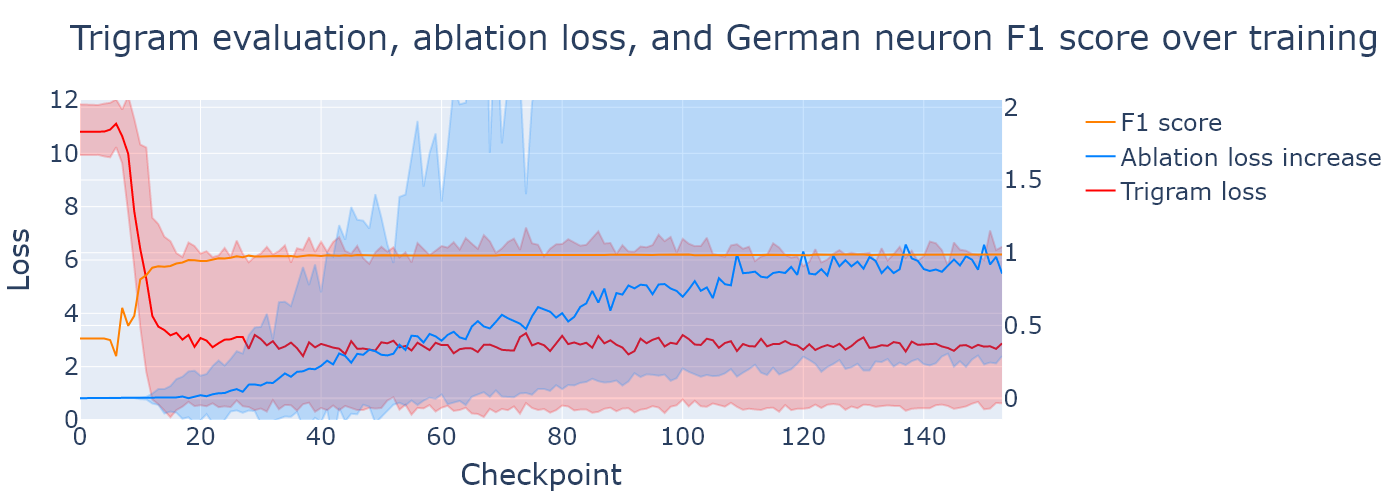
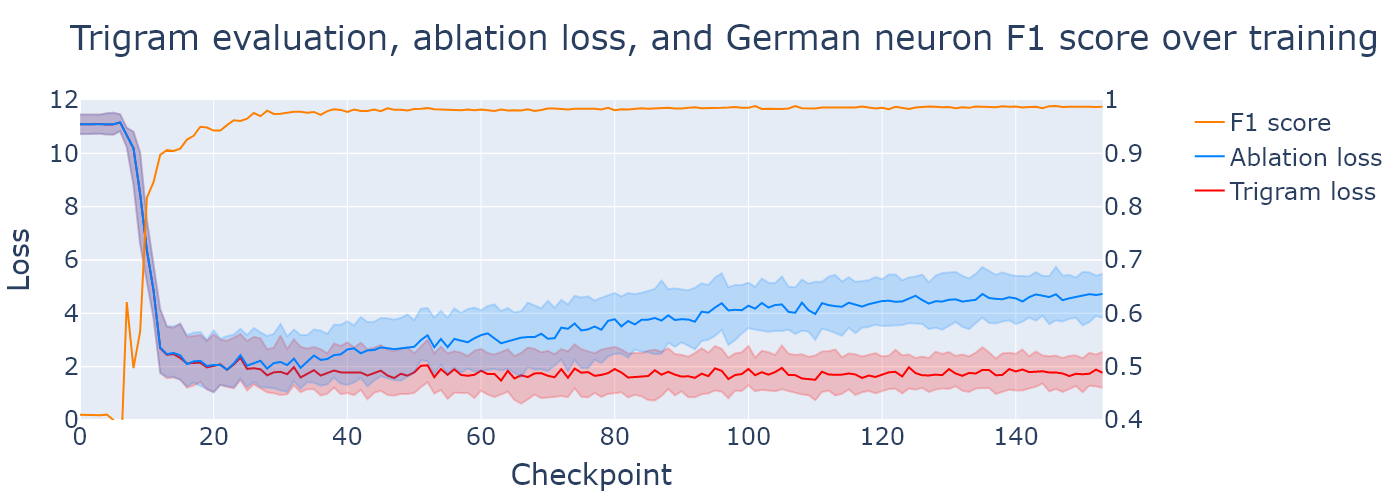
new plots

diff --git a/ngram_evaluation_viz.py b/ngram_evaluation_viz.py
@@ -55,34 +55,34 @@ def process_data(model_name: str, output_dir: Path, image_dir: Path) -> None:
 
 
     # Calculate percentiles at each x-coordinate
-    percentiles = [0.05, 0.5, 0.95]
+    percentiles = [0.25, 0.5, 0.75]
     grouped = context_effect_df.groupby('Checkpoint')['Original Loss'].describe(percentiles=percentiles).reset_index()
     # Plot
     fig = make_subplots(specs=[[{"secondary_y": True}]])
     shade_color_1 = 'rgba(255,0,0,0.2)'
     line_color_1 = 'rgb(255,0,0)'
-    fig.add_trace(go.Scatter(x=grouped['Checkpoint'], y=grouped['5%'], fill=None, mode='lines', line_color=shade_color_1, showlegend=False))
-    fig.add_trace(go.Scatter(x=grouped['Checkpoint'], y=grouped['95%'], fill='tonexty', fillcolor=shade_color_1, line_color=shade_color_1, name="25th-75th percentile", showlegend=False))
+    fig.add_trace(go.Scatter(x=grouped['Checkpoint'], y=grouped['25%'], fill=None, mode='lines', line_color=shade_color_1, showlegend=False))
+    fig.add_trace(go.Scatter(x=grouped['Checkpoint'], y=grouped['75%'], fill='tonexty', fillcolor=shade_color_1, line_color=shade_color_1, name="25th-75th percentile", showlegend=False))
     fig.add_trace(go.Scatter(x=grouped['Checkpoint'], y=grouped['50%'], mode='lines', line=dict(color=line_color_1, width=2), name="Trigram loss"))
     fig.update_layout(title=f"German trigram (N={num_trigrams}) losses over checkpoints", xaxis_title="Checkpoint", yaxis_title="Loss")
 
-    grouped = context_effect_df.groupby('Checkpoint')['Ablation increase (fraction)'].describe(percentiles=percentiles).reset_index()
-    # Plot
-    shade_color_2 = 'rgba(0,128,255,0.2)'
-    line_color_2 = 'rgb(0,128,255)'
-    fig.add_trace(go.Scatter(x=grouped['Checkpoint'], y=grouped['5%'], fill=None, mode='lines', line_color=shade_color_2, showlegend=False), secondary_y=True)
-    fig.add_trace(go.Scatter(x=grouped['Checkpoint'], y=grouped['95%'], fill='tonexty', fillcolor=shade_color_2, line_color=shade_color_2, name="25th-75th percentile", showlegend=False), secondary_y=True)
-    fig.add_trace(go.Scatter(x=grouped['Checkpoint'], y=grouped['50%'], mode='lines', line=dict(color=line_color_2, width=2), name="Ablation loss increase"), secondary_y=True)
-    fig.update_layout(title=f"German trigram (N={num_trigrams}) loss increases from ablating the German neuron", xaxis_title="Checkpoint", yaxis_title="Loss increase")
-
-    # grouped = context_effect_df.groupby('Checkpoint')['Ablation increase'].describe(percentiles=percentiles).reset_index()
+    # grouped = context_effect_df.groupby('Checkpoint')['Ablation increase (fraction)'].describe(percentiles=percentiles).reset_index()
     # # Plot
     # shade_color_2 = 'rgba(0,128,255,0.2)'
     # line_color_2 = 'rgb(0,128,255)'
-    # fig.add_trace(go.Scatter(x=grouped['Checkpoint'], y=grouped['5%'], fill=None, mode='lines', line_color=shade_color_2, showlegend=False))
-    # fig.add_trace(go.Scatter(x=grouped['Checkpoint'], y=grouped['95%'], fill='tonexty', fillcolor=shade_color_2, line_color=shade_color_2, name="25th-75th percentile", showlegend=False))
-    # fig.add_trace(go.Scatter(x=grouped['Checkpoint'], y=grouped['50%'], mode='lines', line=dict(color=line_color_2, width=2), name="Ablation loss increase"))
+    # fig.add_trace(go.Scatter(x=grouped['Checkpoint'], y=grouped['25%'], fill=None, mode='lines', line_color=shade_color_2, showlegend=False), secondary_y=True)
+    # fig.add_trace(go.Scatter(x=grouped['Checkpoint'], y=grouped['75%'], fill='tonexty', fillcolor=shade_color_2, line_color=shade_color_2, name="25th-75th percentile", showlegend=False), secondary_y=True)
+    # fig.add_trace(go.Scatter(x=grouped['Checkpoint'], y=grouped['50%'], mode='lines', line=dict(color=line_color_2, width=2), name="Ablation loss increase"), secondary_y=True)
     # fig.update_layout(title=f"German trigram (N={num_trigrams}) loss increases from ablating the German neuron", xaxis_title="Checkpoint", yaxis_title="Loss increase")
+
+    grouped = context_effect_df.groupby('Checkpoint')['Ablated Loss'].describe(percentiles=percentiles).reset_index()
+    # Plot
+    shade_color_2 = 'rgba(0,128,255,0.2)'
+    line_color_2 = 'rgb(0,128,255)'
+    fig.add_trace(go.Scatter(x=grouped['Checkpoint'], y=grouped['25%'], fill=None, mode='lines', line_color=shade_color_2, showlegend=False))
+    fig.add_trace(go.Scatter(x=grouped['Checkpoint'], y=grouped['75%'], fill='tonexty', fillcolor=shade_color_2, line_color=shade_color_2, name="25th-75th percentile", showlegend=False))
+    fig.add_trace(go.Scatter(x=grouped['Checkpoint'], y=grouped['50%'], mode='lines', line=dict(color=line_color_2, width=2), name="Ablation loss"))
+    fig.update_layout(title=f"German trigram (N={num_trigrams}) loss increases from ablating the German neuron", xaxis_title="Checkpoint", yaxis_title="Loss increase")
 
     line_color_3 = 'rgb(255,128,0)'
     context_neuron_probe_df = probe_df[probe_df["NeuronLabel"] == "L3N669"].copy()
@@ -96,7 +96,7 @@ def process_data(model_name: str, output_dir: Path, image_dir: Path) -> None:
         #yaxis=dict(type='log'),
         #yaxis2=dict(type='linear')
         yaxis=dict(range=[0, 12]),
-        yaxis2=dict(range=[-0.15, 2.05]),
+        yaxis2=dict(range=[0.4, 1]),
         font=dict(size=24)
     )
 
